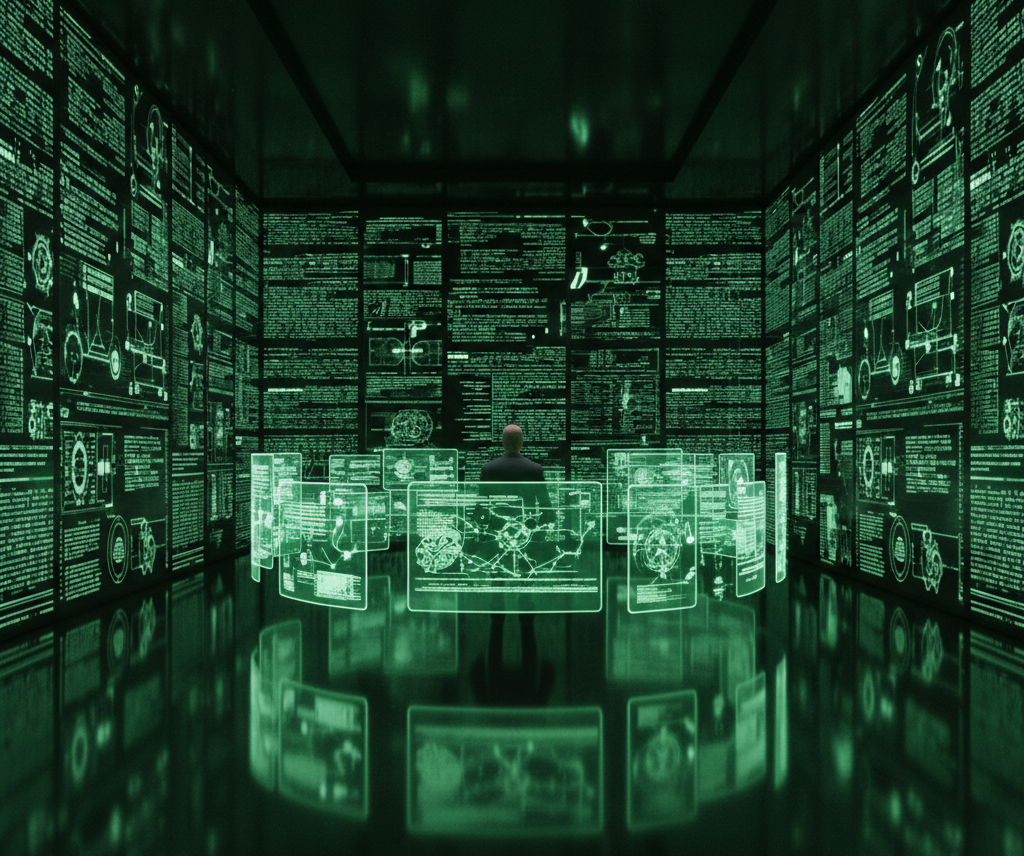
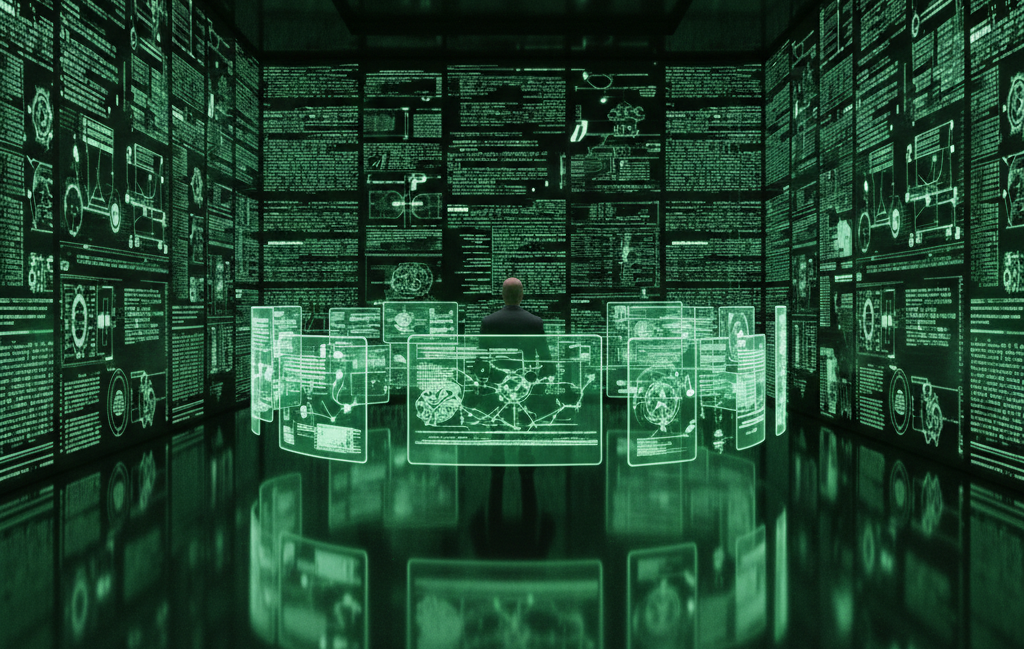
Updates assets and README.md

diff --git a/README.md b/README.md
@@ -174,21 +174,129 @@ Scans for vulnerabilities but never touches code. OWASP Top 10, SAST, DAST, depe
 
 ### 05. Sati — *The Frontend Specialist*
 
-**Sati** is the dedicated frontend specialist. She ships production-grade UI work: React/Next.js, Svelte/SvelteKit, accessibility, performance, browser verification via Playwright. Invoke Sati directly with `@sati/` or `task(subagent_type="sati")` for any non-trivial frontend task.
+<img src=".github/assets/sati.png" width="140" align="right"/>
 
-### The Rest of the Team
+*Crafts stunning UI/UX, even without design mockups.*
 
-| Agent | Role | Model |
-|-------|------|-------|
-| **Oracle** | Strategic planning, architecture decisions, work plan generation | Claude Sonnet 4.6 |
-| **Merovingian** | High-IQ consultation, hard debugging, architecture design | Claude Sonnet 4.6 |
-| **Architect** | Plan execution orchestrator, session coordination | Claude Sonnet 4.6 |
-| **Seraph** | Pre-planning analysis, ambiguity detection, AI failure prevention | Claude Opus 4.6 |
-| **Smith** | Plan validation, completeness review, gap detection | Claude Sonnet 4.6 |
-| **Operator** | External documentation, OSS search, library research | Claude Haiku 4.5 |
-| **Trinity** | Blazing fast codebase grep, pattern discovery | Claude Haiku 4.5 |
-| **Construct** | PDF, image & diagram analysis | Claude Sonnet 4.6 |
-| **Sati** | Frontend specialist — components, accessibility, performance, testing | Claude Sonnet 4.6 |
+**Role:** Frontend specialist
+
+**Model:** Claude Sonnet 4.6 · `temperature: 0.1`
+
+React/Next.js, Svelte/SvelteKit, accessibility, performance, design tokens, component architecture, build tooling. Sati ships production-grade UI work with browser verification via Playwright. Invoke directly with `@sati/` or `task(subagent_type="sati")` for any non-trivial frontend task.
+
+---
+
+### 06. Oracle — *The Plan Builder*
+
+<img src=".github/assets/oracle.png" width="140" align="right"/>
+
+*Architecture demands precision. Oracle delivers it.*
+
+**Role:** Strategic planning, architecture decisions, work plan generation
+
+**Model:** Claude Sonnet 4.6 · `temperature: 0.1`
+
+Creates detailed, structured work plans from complex requests. Decomposes ambiguous requirements into atomic, verifiable steps with clear success criteria. Oracle builds the plan — Morpheus executes it.
+
+---
+
+### 07. Merovingian — *The Consultant*
+
+<img src=".github/assets/merovingian.png" width="140" align="right"/>
+
+*High-IQ reasoning for problems that refuse to yield.*
+
+**Role:** High-IQ consultation, hard debugging, architecture design
+
+**Model:** Claude Sonnet 4.6 · `temperature: 0.1`
+
+Read-only consultation for hard debugging (after 2+ failed attempts), multi-system tradeoffs, and architecture decisions requiring deep reasoning. Merovingian analyzes — never implements.
+
+---
+
+### 08. Architect — *The Master Orchestrator*
+
+<img src=".github/assets/orchestrator-architect.png" width="140" align="right"/>
+
+*Where plans become reality.*
+
+**Role:** Plan execution orchestrator, session coordination
+
+**Model:** Claude Sonnet 4.6 · `temperature: 0.1`
+
+Executes Oracle's work plans, coordinates session state, manages task dependencies, and ensures every phase completes before moving to the next. The Architect is the bridge between planning and shipping.
+
+---
+
+### 09. Seraph — *The Pre-Planner*
+
+<img src=".github/assets/seraph.png" width="140" align="right"/>
+
+*Sees what others miss before work begins.*
+
+**Role:** Pre-planning analysis, ambiguity detection, AI failure prevention
+
+**Model:** Claude Opus 4.6 · `temperature: 0.3`
+
+Analyzes requests to identify hidden intentions, ambiguities, scope creep, and AI failure points. Seraph intervenes before planning starts — preventing costly mistakes downstream.
+
+---
+
+### 10. Smith — *The Validator*
+
+<img src=".github/assets/smith.png" width="140" align="right"/>
+
+*Every plan meets Smith's standards — or gets rewritten.*
+
+**Role:** Plan validation, completeness review, gap detection
+
+**Model:** Claude Sonnet 4.6 · `temperature: 0.1`
+
+Evaluates work plans against rigorous clarity, verifiability, and completeness standards. Catches gaps, ambiguities, and missing context before implementation begins. Smith is the last line of defense.
+
+---
+
+### 11. Operator — *The Researcher*
+
+<img src=".github/assets/operator.png" width="140" align="right"/>
+
+*Finds what you need, where it lives.*
+
+**Role:** External documentation, OSS search, library research
+
+**Model:** Claude Haiku 4.5 · `temperature: 0.1`
+
+Specialized codebase understanding agent for multi-repository analysis, searching remote codebases, retrieving official documentation, and finding implementation examples using GitHub CLI, Context7, and Web Search.
+
+---
+
+### 12. Trinity — *The Search Engine*
+
+<img src=".github/assets/trinity.png" width="140" align="right"/>
+
+*Finds anything, anywhere, instantly.*
+
+**Role:** Blazing fast codebase grep, pattern discovery
+
+**Model:** Claude Haiku 4.5 · `temperature: 0.1`
+
+Contextual grep for codebases. Answers "Where is X?", "Which file has Y?", "Find the code that does Z". Fires multiple in parallel for broad searches. Quick, medium, or very thorough — you choose.
+
+---
+
+### 13. Construct — *The Media Analyst*
+
+<img src=".github/assets/construct.png" width="140" align="right"/>
+
+*Sees what's inside — images, PDFs, diagrams.*
+
+**Role:** PDF, image & diagram analysis
+
+**Model:** Claude Sonnet 4.6 · `temperature: 0.1`
+
+Analyzes media files that require interpretation beyond raw text. Extracts specific information or summaries from documents, describes visual content. Use when you need analyzed/extracted data rather than literal file contents.
+
+---
 
 Every agent, model, temperature, and permission is fully customizable. [**Meet the full team →**](docs/agents.md)
 